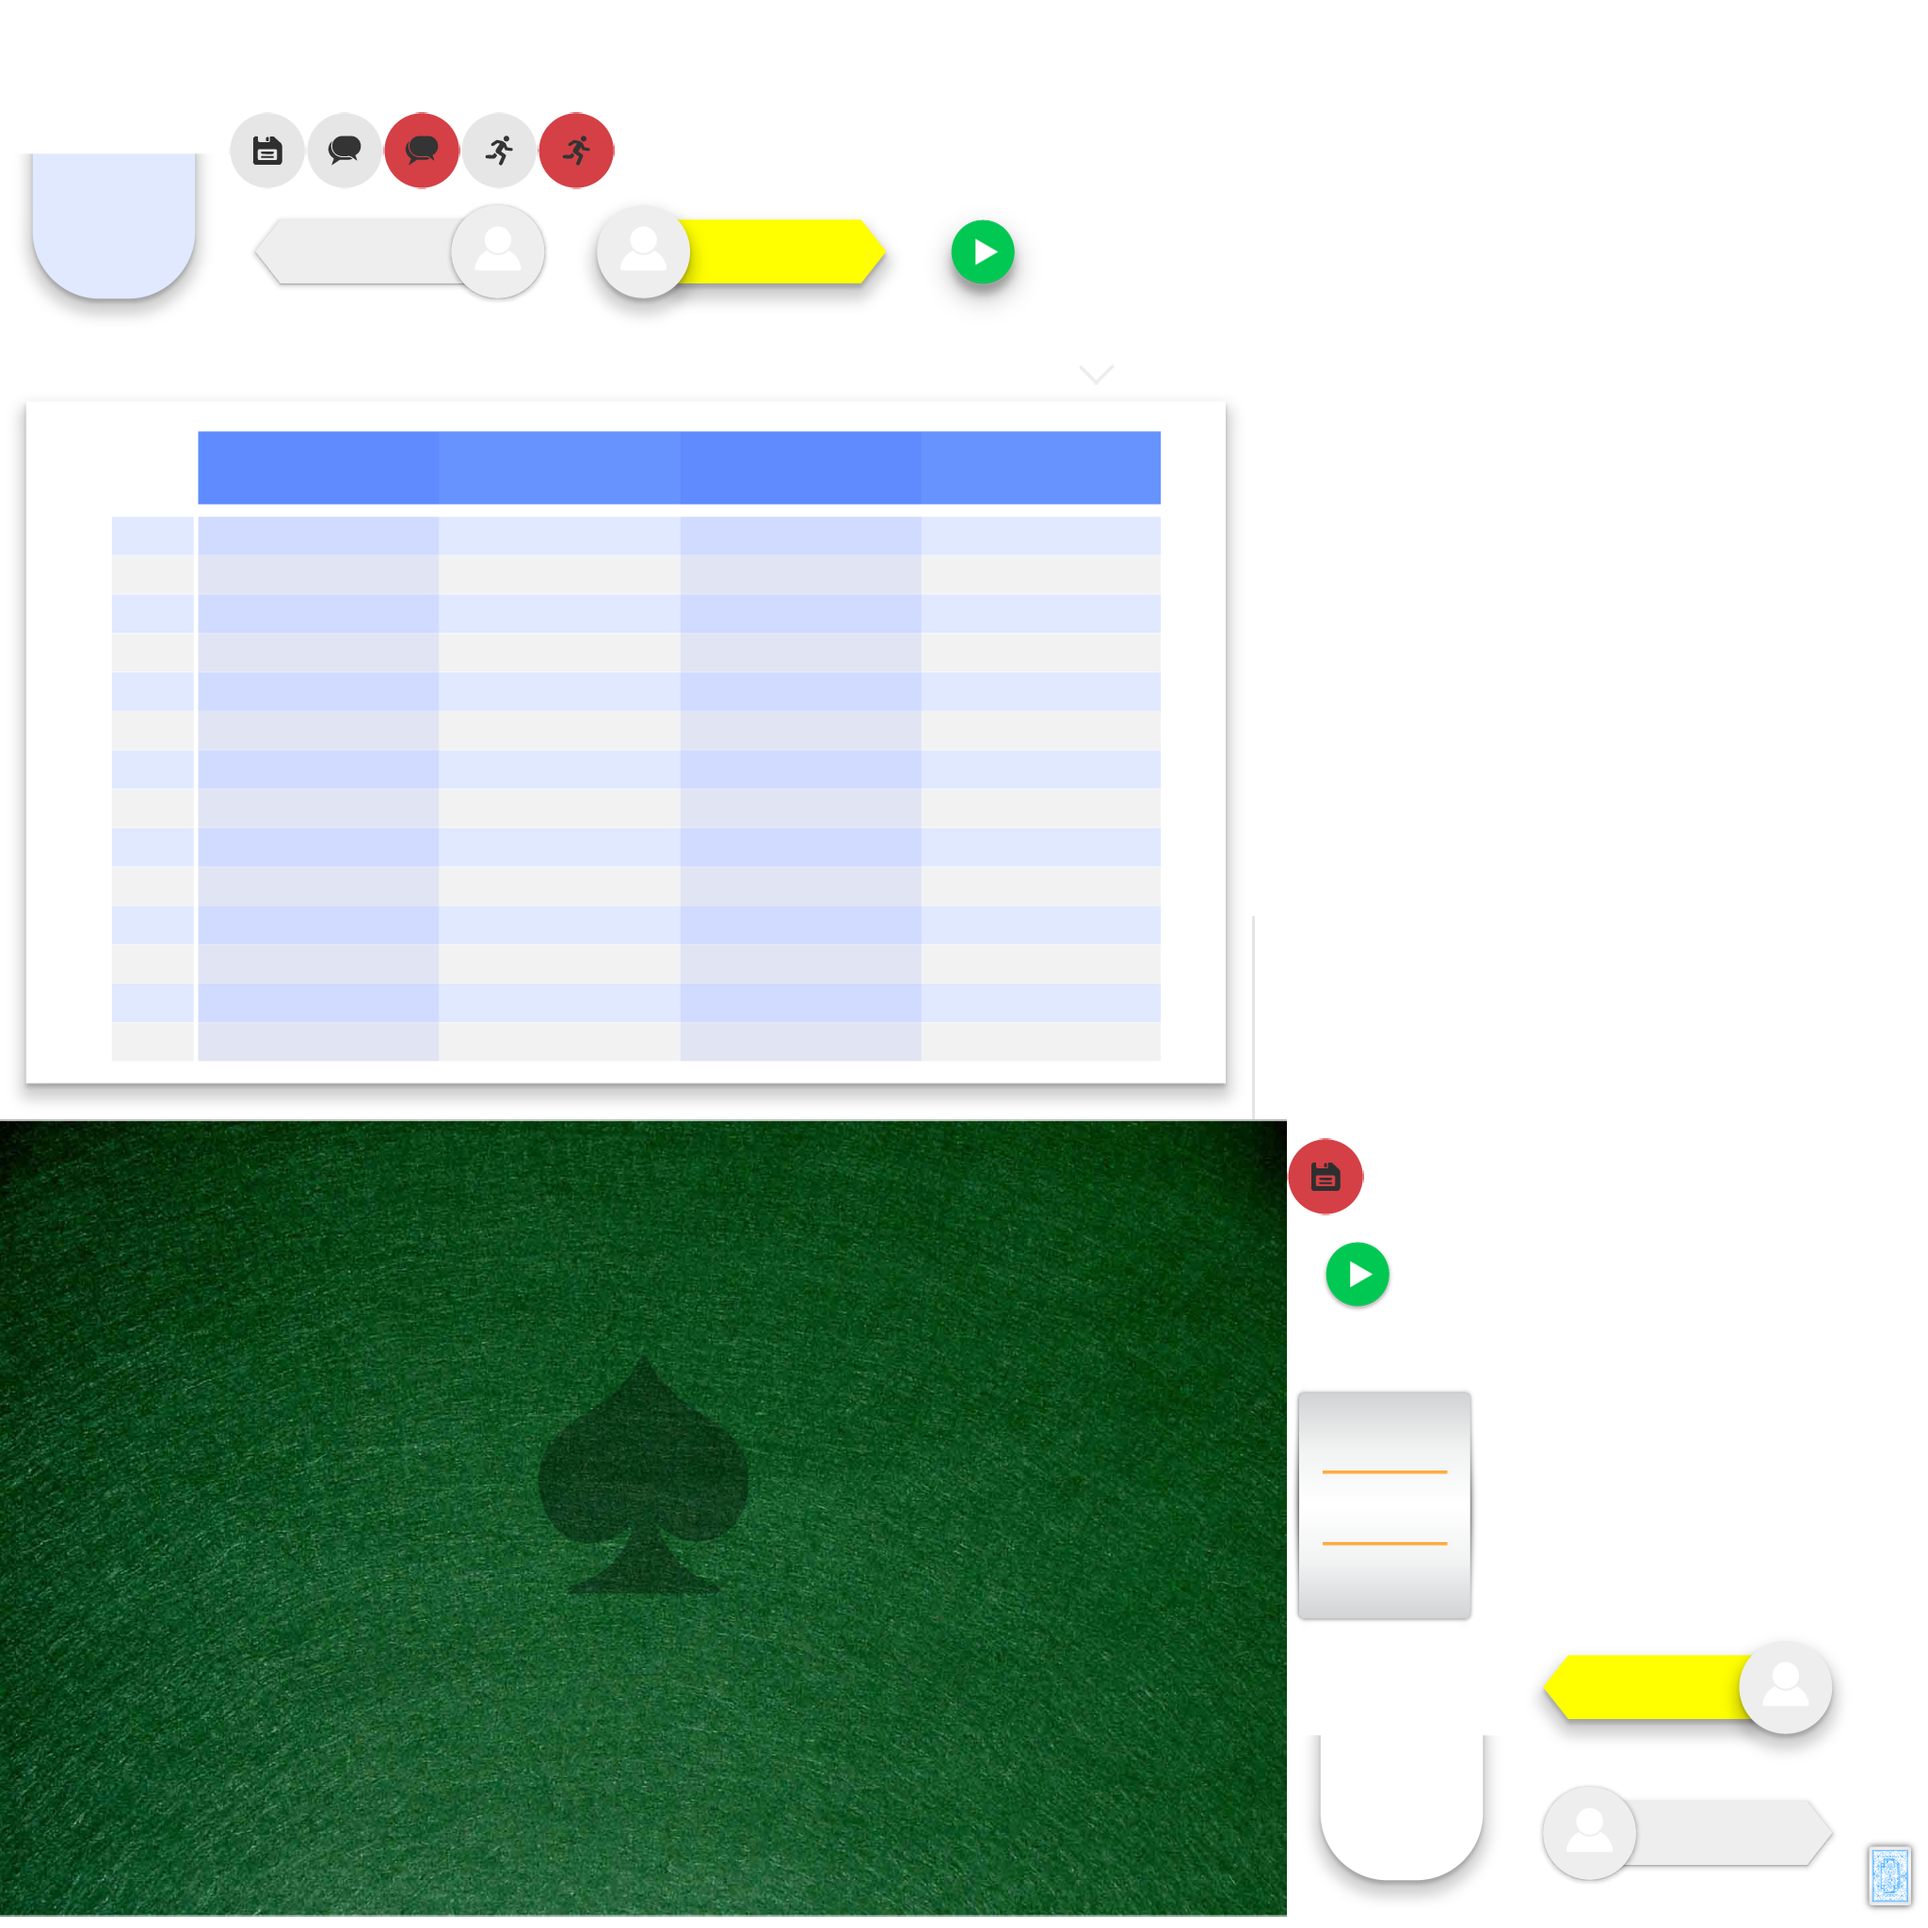
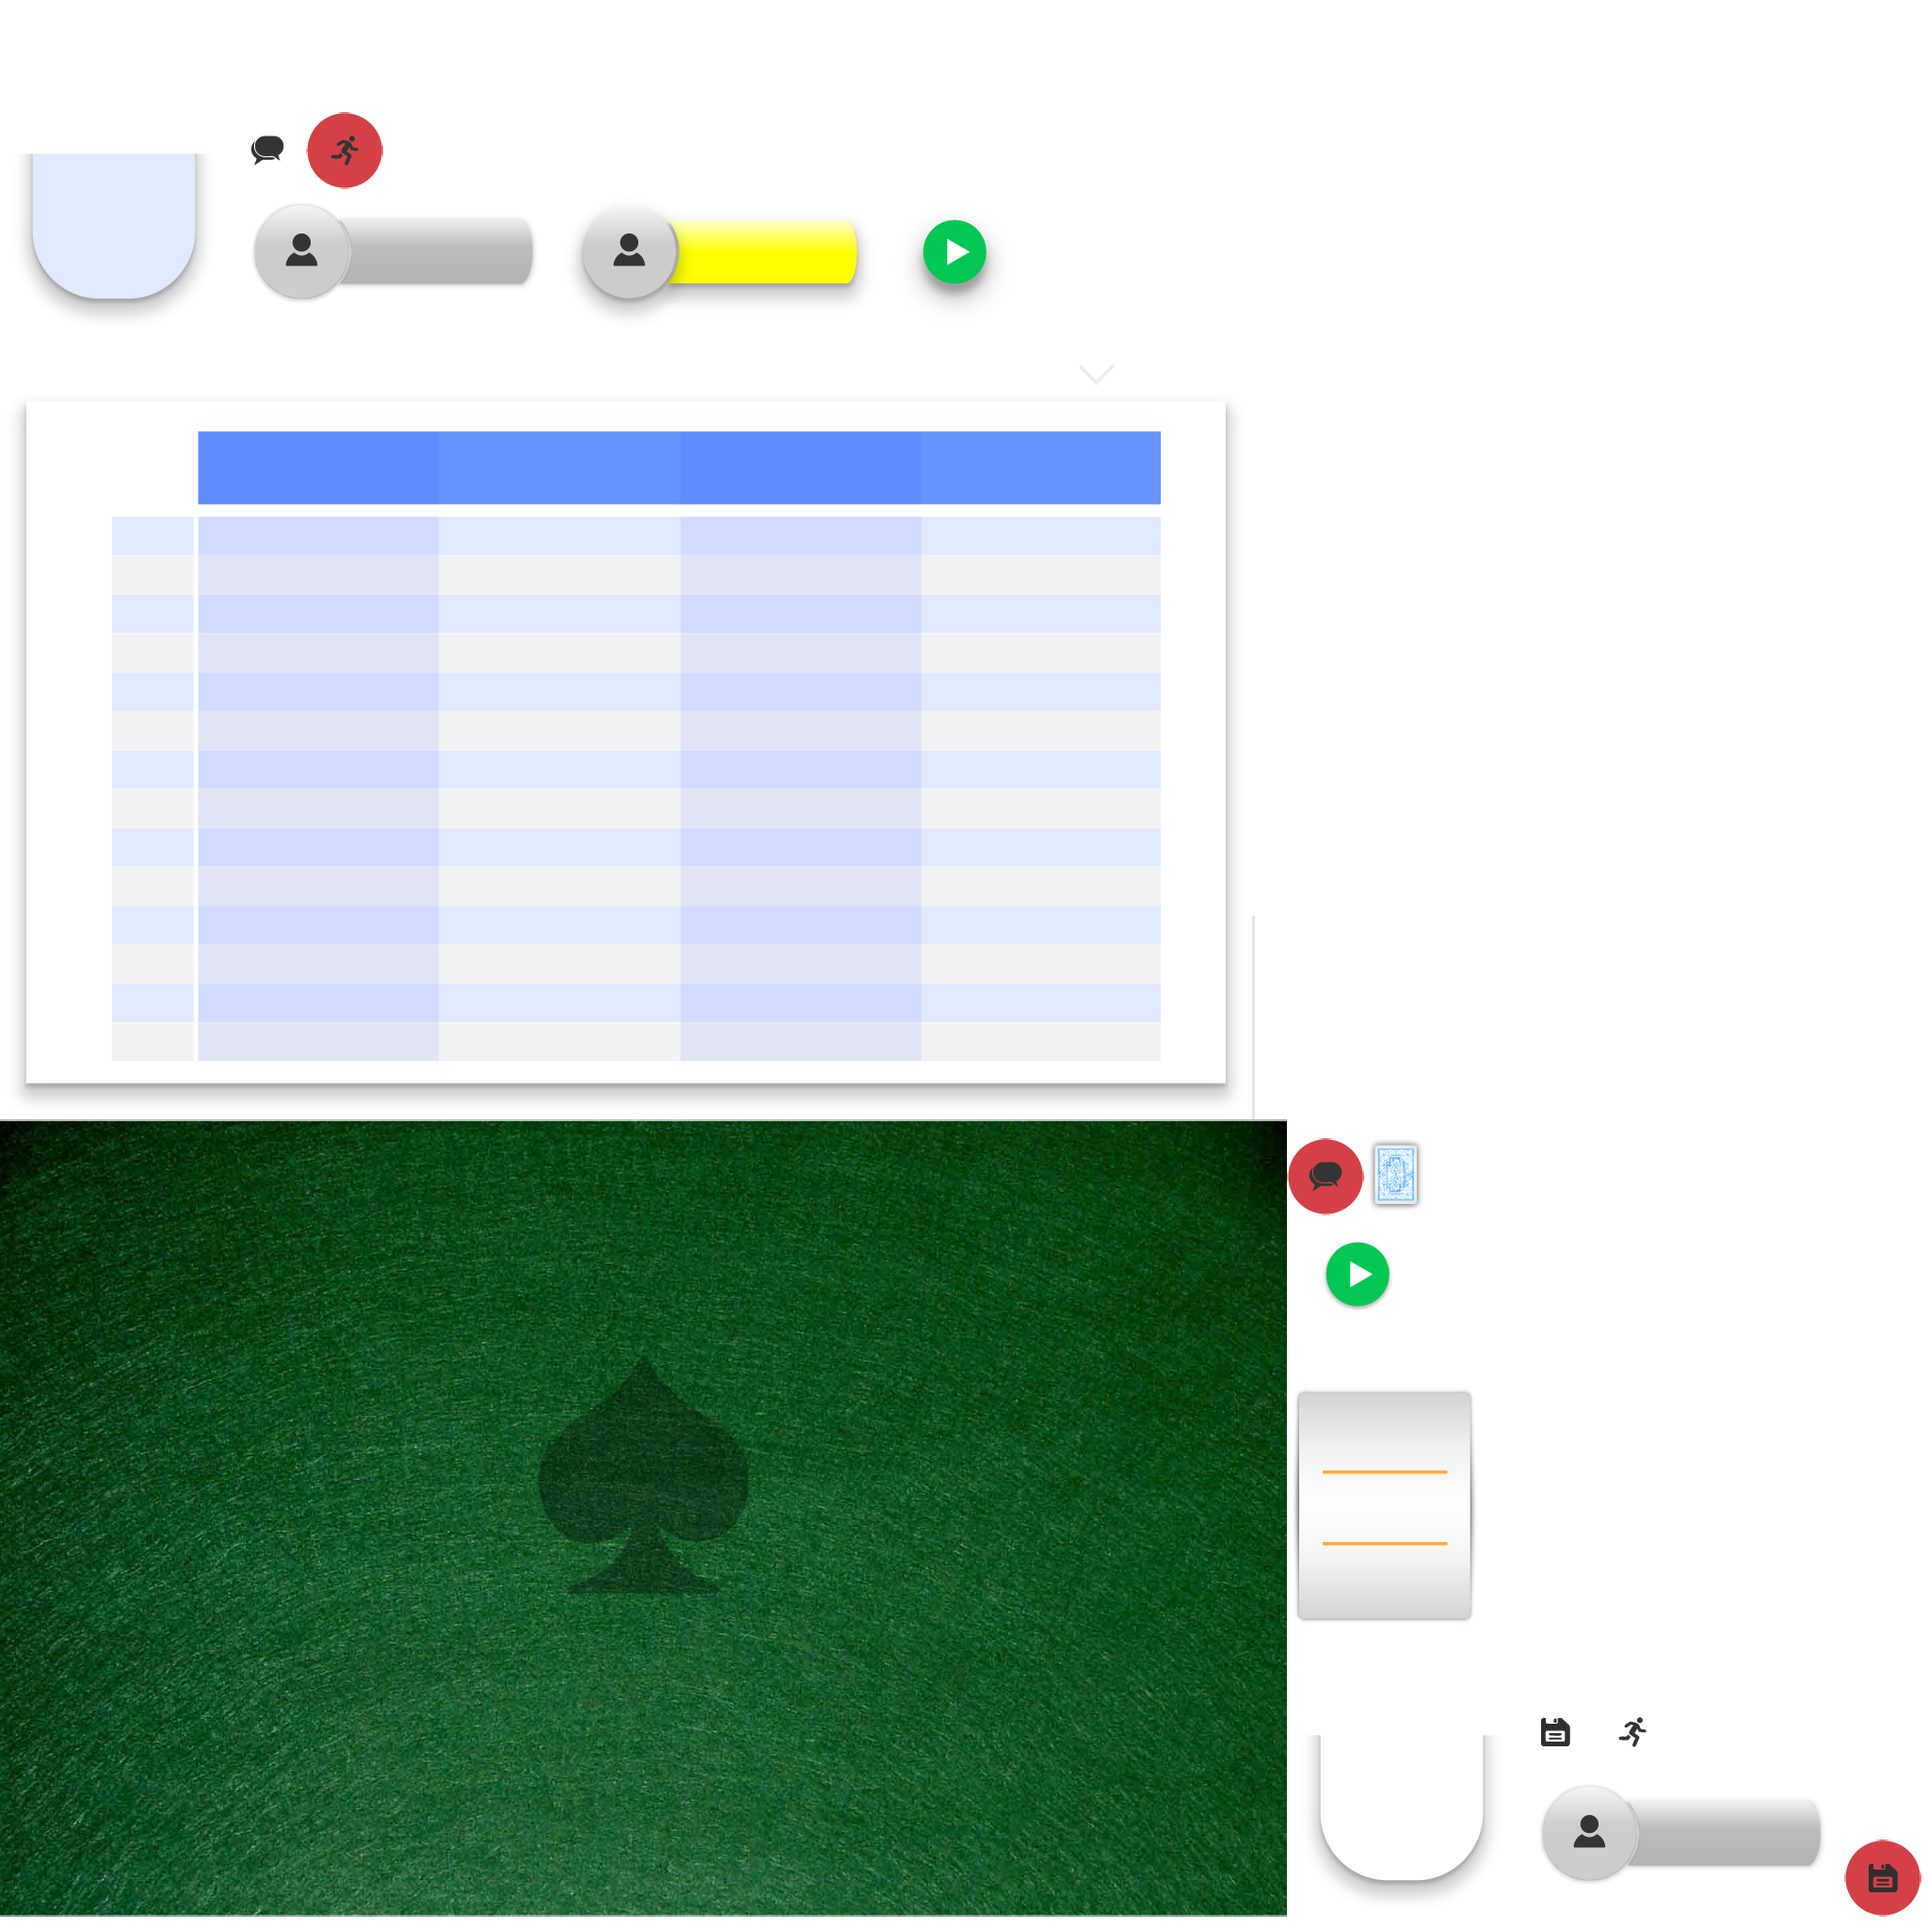
game screen ui improvements

diff --git a/core/src/com/tsanikgr/whist_multiplayer/views/game/PlayerView.java b/core/src/com/tsanikgr/whist_multiplayer/views/game/PlayerView.java
@@ -65,13 +65,13 @@ public class PlayerView extends View {
 		nameLabel = (MyTextButton)nameLabelWrap.getChildren().get(0);
 		nameLabel.setTouchable(Touchable.disabled);
 		nameLabel.setMaxCharacters(10);
-		if (playerIndex == 3) {
-			nameLabel.padRight(nameLabel.getWidth()/3.7f);
-			nameLabel.padLeft(nameLabel.getWidth()/15f);
-		} else {
+//		if (playerIndex == 3) {
+//			nameLabel.padRight(nameLabel.getWidth()/3.7f);
+//			nameLabel.padLeft(nameLabel.getWidth()/15f);
+//		} else {
 			nameLabel.padLeft(nameLabel.getWidth()/3.7f);
-			nameLabel.padRight(nameLabel.getWidth()/15f);
-		}
+			nameLabel.padRight(nameLabel.getWidth()/20f);
+//		}
 		nameLabel.getLabel().setAlignment(Align.center);
 		Geometry.fixOrigin(nameLabelWrap);
 
@@ -190,23 +190,39 @@ public class PlayerView extends View {
 	private void animateWonBausen(int declared, int complete, boolean reset) {
 		if (reset) lastUpdated = -1;
 
+		float dx = 0, dy = 0;
+		switch (playerIndex) {
+			case 0:
+				dx = 0f; dy = 60f;
+				break;
+			case 1:
+				dx = 60f; dy = 0f;
+				break;
+			case 2:
+				dx = 0f; dy = -60f;
+				break;
+			case 3:
+				dx = -60f; dy = 0f;
+				break;
+		}
+
 		Actor actor;
 		for (int b = 0 ; b < bausen.size() ; b++) {
 			actor = bausen.getChildren().get(b);
 			if (b >= complete) {
-//				actor.addAction(sequence(delay(1f),alpha(0.25f)));
-				actor.addAction(sequence(delay(1f), Actions.color(BAUSEN_COLOUR_INCOMPLETE)));
+//				actor.addAction(sequence(delay(0.5f),alpha(0.25f)));
+				actor.addAction(sequence(delay(0.5f), Actions.color(BAUSEN_COLOUR_INCOMPLETE)));
 			} else {
-//				actor.addAction(sequence(delay(1f),alpha(1.0f)));
-//				actor.addAction(sequence(delay(1f), Actions.color(BAUSEN_COLOUR_ACHIEVED)));
+//				actor.addAction(sequence(delay(0.5f),alpha(1.0f)));
+//				actor.addAction(sequence(delay(0.5f), Actions.color(BAUSEN_COLOUR_ACHIEVED)));
 			}
 			if (b == lastUpdated && b < declared) {
-				actor.addAction(sequence(delay(1f), Actions.moveBy(0f, 30f)));
-				actor.addAction(sequence(delay(1f), Actions.moveBy(0f, -30f, 1.8f, Interpolation.bounceOut)));
-				actor.addAction(sequence(delay(1f), Actions.color(BAUSEN_COLOUR_ACHIEVED)));
+				actor.addAction(sequence(delay(0.5f), Actions.moveBy(dx, dy)));
+				actor.addAction(sequence(delay(0.5f), Actions.moveBy(-dx, -dy, 2f, Interpolation.bounceOut)));
+				actor.addAction(sequence(delay(0.5f), Actions.color(BAUSEN_COLOUR_ACHIEVED)));
 
-//				actor.addAction(sequence(delay(1.5f), Actions.scaleTo(1.5f, 1.5f, 0.75f, Interpolation.sineIn)));
-//				actor.addAction(sequence(delay(2.25f), Actions.scaleTo(1f, 1f, 0.75f, Interpolation.sineOut)));
+				actor.addAction(sequence(delay(0.5f), Actions.scaleTo(3f, 3f)));
+				actor.addAction(sequence(delay(0.5f), Actions.scaleTo(1f, 1f, 0.75f, Interpolation.sineOut)));
 			}
 		}
 		lastUpdated++;
@@ -244,29 +260,49 @@ public class PlayerView extends View {
 			float dx = bausenPrototype.getWidth()*(1-overlap);
 			float offset = -(dx *(float)(total-1) + bausenPrototype.getWidth()) / 2f;
 
+			float adx = 0, ady = 0;
+			switch (playerIndex) {
+				case 0:
+					adx = 0f; ady = 60f;
+					break;
+				case 1:
+					adx = 60f; ady = 0f;
+					break;
+				case 2:
+					adx = 0f; ady = -60f;
+					break;
+				case 3:
+					adx = -60f; ady = 0f;
+					break;
+			}
+
 			if (reset) bausen.clearChildren();
 			for (int b = 0; b < total; b++) {
 				if (b < bausen.size()) i = bausen.getChildren().get(b);
 				else {
 					i = MyImage.fromPrototype(bausenPrototype);
 					bausen.addActor(i);
-					i.setPosition(0f,0f);
+					i.setPosition(0f, 0f);
+					Geometry.fixOrigin(i);
 				}
 
 				if (reset) {
 					i.setColor(BAUSEN_COLOUR_INCOMPLETE);
 					i.setPosition(0f, 0f);
-					i.addAction(Actions.moveBy(offset, 0f, 1.8f, Interpolation.elasticOut));
+					i.addAction(Actions.delay(0.5f,Actions.moveBy(offset, 0f, 2.5f, Interpolation.elasticOut)));
 					offset += dx;
 				} else {
 					if (b == total - 1) {
 						i.setVisible(false);
-						i.setPosition(offset + b*dx, 30f);
-						i.addAction(sequence(delay(1f), Actions.color(BAUSEN_COLOUR_WRONG)));
-						i.addAction(sequence(delay(1f), Actions.visible(true)));
-						i.addAction(Actions.sequence(Actions.delay(1f), Actions.moveBy(0f, -30f, 1.8f, Interpolation.bounceOut)));
+						i.setPosition(offset + b*dx + adx, ady);
+						i.addAction(sequence(delay(0.5f), Actions.color(BAUSEN_COLOUR_WRONG)));
+						i.addAction(sequence(delay(0.5f), Actions.visible(true)));
+						i.addAction(Actions.sequence(Actions.delay(0.5f), Actions.moveBy(-adx, -ady, 2f, Interpolation.bounceOut)));
+
+						i.addAction(sequence(delay(0.5f), Actions.scaleTo(3f, 3f)));
+						i.addAction(sequence(delay(0.5f), Actions.scaleTo(1f, 1f, 0.75f, Interpolation.sineOut)));
 					} else {
-						i.addAction(Actions.sequence(delay(1f), Actions.moveBy(-dx/2.0f, 0f, 1.8f, Interpolation.exp10Out)));
+						i.addAction(Actions.sequence(delay(0.5f), Actions.moveBy(-dx/2.0f, 0f, 1.8f, Interpolation.exp10Out)));
 					}
 				}
 			}

diff --git a/core/src/com/tsanikgr/whist_multiplayer/myactors/MyImage.java b/core/src/com/tsanikgr/whist_multiplayer/myactors/MyImage.java
@@ -62,6 +62,7 @@ public class MyImage extends Image implements MaskInterface {
 		image.setScaleX(imagePrototype.getScaleX());
 		image.setScaleY(imagePrototype.getScaleY());
 		image.setRotation(imagePrototype.getRotation());
+		image.setOrigin(imagePrototype.getOriginX(), imagePrototype.getOriginY());
 		return image;
 	}
 }
